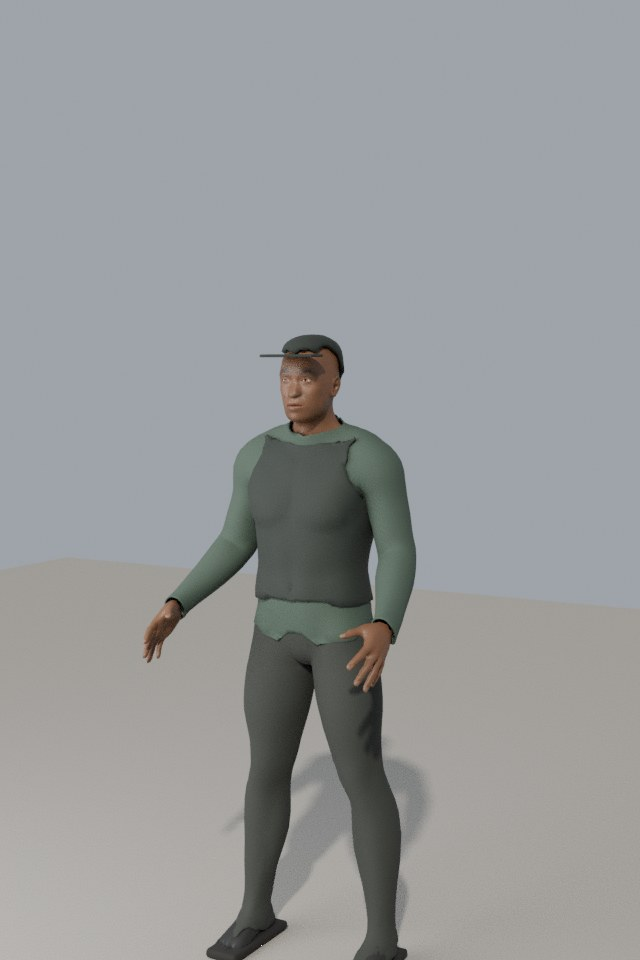
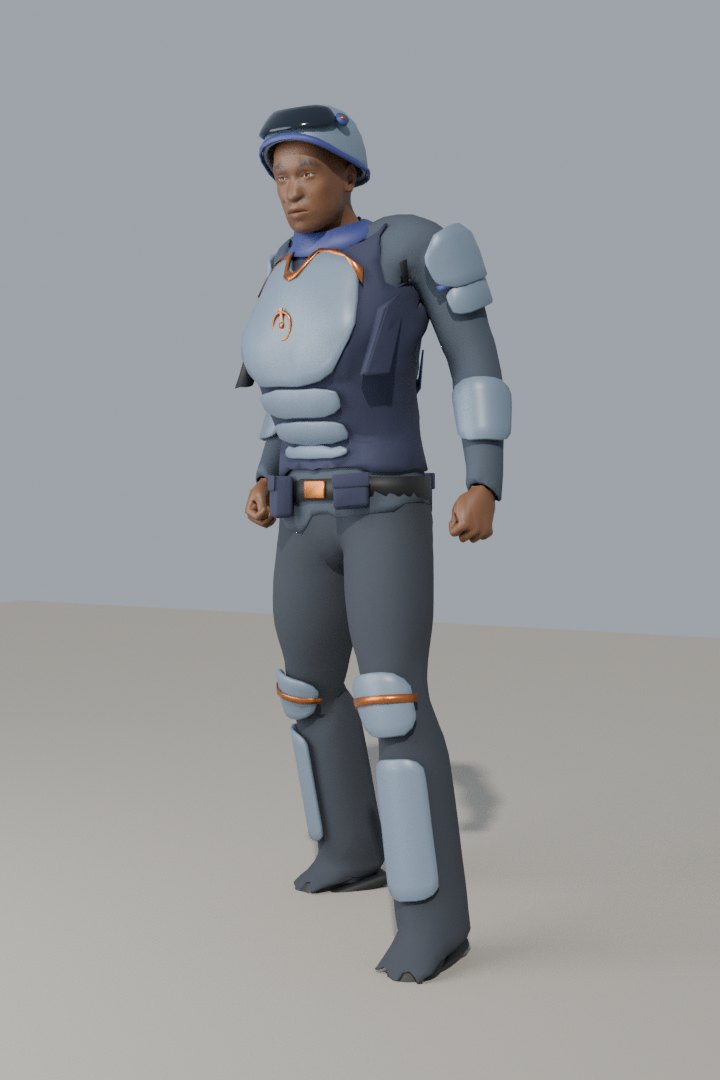
docs(personagens): folha de contato de Brandão, Elias e Custódio; licenças e STATUS
- docs/screenshots/characters/{brandao,elias,custodio}_{corpo,rosto,costas}.jpg: Cycles,
  pose Idle, cena/câmeras do preview_glb.py com o rosto enquadrado pelo osso Head (o
  enquadramento pela altura máxima errava o rosto com capacete/cabeça inclinada).
- elenco_cap1_animacao.jpg: Idle/Walk/Talk/CrouchWalk dos três (Workbench, sheet_glb.py).
- elenco_silhuetas.jpg: fileira do elenco inteiro em cor e silhueta chapada.
- ASSETS.md: brandao.glb, elias.glb, armadura do custodio.glb e os saqueadores (que
  faltavam); STATUS.md: seção do elenco do Capítulo 1, pendência do elenco provisório
  resolvida, números e pendências.
- make_character.py: limpeza de variáveis sem uso (saída idêntica).

Claude-Session: https://claude.ai/code/session_01Wy4uqYY61cVDPzU7hysppd

Changed region(s): [[0.2188, 0.0938, 0.7188, 1.0]]

diff --git a/tools/blender/make_character.py b/tools/blender/make_character.py
@@ -2120,7 +2120,7 @@ def ring_band(name: str, surf: BodySurface, p0: Vector, p1: Vector, n: int, t_ro
     """Faixa fechada em volta de um eixo (gola, cinto, braçadeira): um anel por altura `t_rows` (0..1 de p0 a p1),
     raio = superfície + `offset` (valor ou lista por anel). `uniform`: mesmo raio em todas as alturas (o maior),
     para um cinto reto que passa por cima de uma borda (barra do colete) sem degrau."""
-    a, u, w = axis_basis(p1 - p0, ref)
+    _a, u, w = axis_basis(p1 - p0, ref)
     radii = []
     for t in t_rows:
         o = p0 + (p1 - p0) * t
@@ -2472,11 +2472,11 @@ def build_jacket_extras(name: str, spec: dict, surf: BodySurface, joints, m: dic
 def build_scarf(name: str, spec: dict, surf: BodySurface, joints, m: dict, cloth: dict) -> list:
     """Lenço enrolado na base do pescoço, com a ponta caindo sobre o peito."""
     J = lambda b: joints[f"mixamorig:{b}"]  # noqa: E731
-    neck, head, spine2 = J("Neck"), J("Head"), J("Spine2")
+    neck, head = J("Neck"), J("Head")
     mat = simple_material(f"{name}_mat_scarf", spec["scarf"], 0.92)
     ndir = (head - neck).normalized()
     o = neck - ndir * 0.008
-    a, u, w = axis_basis(ndir, FRONT)
+    _a, u, w = axis_basis(ndir, FRONT)
     path = []
     for i in range(26):
         th = TAU * i / 26
@@ -2561,7 +2561,7 @@ def build_armor(name: str, spec: dict, surf: BodySurface, joints, verts, vgroups
     a = spec["armor"]
     out = []
     J = lambda k: joints[f"mixamorig:{k}"]  # noqa: E731
-    hips, spine, spine1, spine2, neck, head = J("Hips"), J("Spine"), J("Spine1"), J("Spine2"), J("Neck"), J("Head")
+    hips, spine1, spine2, neck, head = J("Hips"), J("Spine1"), J("Spine2"), J("Neck"), J("Head")
     cy = (m["torso_front"] + m["torso_back"]) / 2
     plate = simple_material(f"{name}_mat_plate", a["plate"], 0.42, 0.05)
     helmet_mat = plate

diff --git a/docs/STATUS.md b/docs/STATUS.md
@@ -1,6 +1,6 @@
 # STATUS — O Último Veto / EVA
 
-Atualizado em 30/10/2026 (Setor 17 montado com o kit 2072; antes: personagens realistas, controles de toque, animações CC0 retargeteadas).
+Atualizado em 30/10/2026 (Brandão e Elias com GLBs próprios e armadura segmentada do Custódio; Setor 17 montado com o kit 2072; antes: personagens realistas, controles de toque, animações CC0 retargeteadas).
 
 ## Marco atual: **Vertical slice jogável — "A Apuração" + "O Carregamento"** ✅
 
@@ -22,7 +22,7 @@ O jogo roda no navegador (Chrome/Edge/Firefox recentes no desktop; Chrome/Safari
 | Câmera | ✅ | Terceira pessoa sobre o ombro, mouse com pointer lock — e, quando o navegador recusa o lock (iframe sem permissão, `?pointerlock=0`), arrastar com o botão esquerdo gira a câmera (aviso único na tela) —, arrastar no toque, roda para distância, oclusão por raio físico (não atravessa paredes), enquadramentos de diálogo (over-the-shoulder/two-shot) com letterbox e DOF. Mouse/roda acumulados fora do modo seguir são descartados (sem salto ao sair do diálogo). |
 | Cenário | ✅ (procedural) | Rua de 62 m com 10 fachadas (janelas vedadas/acesas, sacadas, toldos, pichações, varais, caixas d'água, painéis solares), oficina de Matias (interior jogável), praça com posto de distribuição, fila, quadro de avisos, estandarte da Igreja, fonte seca, árvores, mato, carro queimado, entulho, barraca de mercado, gerador, portão da Central de Suprimentos. Placas e cartazes em PT-BR. Vegetação e sinais de ocupação humana (roupas, luzes acesas, energia parcial). |
 | Iluminação | ✅ | Sol direcional + hemisférica + sombras em cascata (CSM, 3 cascatas) ou simples (qualidade baixa), céu procedural (`SkyMaterial`), névoa seca, IBL procedural, postes (um aceso, um piscando com zumbido), lâmpada da oficina; pós-processamento ACES, vinheta, grão, bloom, aberração cromática leve. |
-| NPCs 3D | ✅ (provisórios) | Miriam, Custódio, Comerciante, Raquel e Ana: humanos MakeHuman rigados (Mixamo), malha reduzida (decimate 0,6), colisão (cápsula), viram-se para o jogador, gesto ocasional, animação Talk em diálogo. |
+| NPCs 3D | ✅ (provisórios) | Miriam, Custódio, Comerciante, Raquel e Ana: humanos MakeHuman rigados (Mixamo), malha reduzida (decimate 0,6), colisão (cápsula), viram-se para o jogador, gesto ocasional, animação Talk em diálogo. Capítulo 1: Samuel Brandão e Elias Nobre com GLBs próprios (carregados sob demanda pelo diretor); Custódio com armadura segmentada. |
 | Diálogo PT-BR | ✅ | 5 grafos (`src/data/dialogues.ts`) com falas canônicas do prólogo, condições, efeitos, escolhas (teclas 1–4/setas/clique), legendas com nome do falante, avanço com Espaço/E. |
 | Voz | ⚠ provisória | Síntese de fala do navegador (Web Speech API, voz pt-BR quando disponível). **Não há dublagem gravada.** O sistema já aceita arquivos (`voice` por linha) quando existirem. |
 | Estado narrativo | ✅ | Flags (`matiasTrustsSystem`, `apuracao.postura`, `pista.carregamento`, …) e missão "A Apuração" com 5 objetivos; HUD de objetivo e avisos. |
@@ -41,7 +41,7 @@ O jogo roda no navegador (Chrome/Edge/Firefox recentes no desktop; Chrome/Safari
 
 ## Assets provisórios (todos marcados em `public/assets/licenses/ASSETS.md`)
 
-- **Personagens**: gerados por `tools/blender/make_character.py` (Blender headless via `pip install bpy`) a partir de **dados CC0 do MakeHuman** vendorizados em `tools/blender/data/makehuman` — malha base hm08, targets (raça/sexo/idade/peso + detalhes faciais), rig Mixamo com pesos, máscaras de pele e olhos. Anatomia e rosto são reais; pele é procedural bakeada (2048 px Matias / 1024 px NPCs); cabelo é uma calota esculpida (sem fios); roupas são cascas conformadas ao corpo (sem rugas/tecido); acessórios (óculos, mochila, cinto, boné, lenço, jaleco, avental) são primitivas ou camadas do corpo. Sem marcas; sem a fotografia do criador (o rosto de Matias não tem semelhança com ele). Pré-visualizações em `docs/screenshots/characters/`. **Animações não são provisórias**: biblioteca CC0 da Quaternius (ver acima); vídeo de avaliação em `docs/videos/locomocao.mp4`.
+- **Personagens**: gerados por `tools/blender/make_character.py` (Blender headless via `pip install bpy`) a partir de **dados CC0 do MakeHuman** vendorizados em `tools/blender/data/makehuman` — malha base hm08, targets (raça/sexo/idade/peso + detalhes faciais), rig Mixamo com pesos, máscaras de pele e olhos. Anatomia e rosto são reais; pele é procedural bakeada (2048 px Matias / 1024 px NPCs); cabelo é uma calota esculpida (sem fios); roupas são cascas conformadas ao corpo (sem rugas/tecido); acessórios (óculos, mochila, cinto, boné, lenço, jaleco, avental) são primitivas ou camadas do corpo. Brandão, Elias e o Custódio usam o passe de roupas volumétricas (tecido que cai reto, bordas cortadas por planos, peças projetadas na superfície — ver "Personagens do Capítulo 1"). Sem marcas; sem a fotografia do criador (o rosto de Matias não tem semelhança com ele). Pré-visualizações em `docs/screenshots/characters/`. **Animações não são provisórias**: biblioteca CC0 da Quaternius (ver acima); vídeo de avaliação em `docs/videos/locomocao.mp4`.
 - **MPFB/asset packs**: o plugin MPFB foi clonado mas **não é executado** (o gerador é código próprio que lê só os dados CC0). Os pacotes de assets do MakeHuman (peles fotográficas, cabelos, roupas) **não estão instalados** — o site makehumancommunity.org é inacessível deste ambiente. Rodar o MPFB com `makehuman_system_assets` na máquina do criador é o próximo salto de qualidade.
 - **Cenário**: a praça da Apuração ("hero corner" M1.1) usa o kit GLB `public/assets/environments/praca_hero.glb` (fachada da Central com vãos reais, sobrados com varandas/grades/varais, posto, banca, gerador, tambores, caixotes, poste, árvores com folhagem alpha-test) e materiais PBR fotográficos CC0 da ambientCG (reboco, pedra portuguesa, concreto, telha, ferrugem). O resto da rua ainda é geometria em blocos com texturas procedurais. Comparações A/B com câmera idêntica em `docs/screenshots/m1/` (`antes_*` vs `depois_*`); passeio pelo canto em `docs/videos/praca_hero.mp4`.
 - **Veículos (PR #1)**: Javali VB-4, Atlas T-3, Módulo V-7 **dirigíveis** e Rastro AV-4 **pilotável** (física em `src/vehicles/`), modelos refinados no Blender a partir do gerador da PR (`public/assets/vehicles/`); Janus só no visualizador `preview-veiculos.html`. Modelos ainda são **protótipos modulares** (silhuetas simples), não arte final. `npm run test:gameplay`.
@@ -89,7 +89,7 @@ Jogáveis de ponta a ponta e encadeadas ao fim do Capítulo 0: na tela de conclu
 - **Testes**: `tests/unit/chapter1Director.test.ts` (consequências, fala da tabela = grafo, fase/posições a partir do save, o capítulo inteiro sobre um dublê do jogo, falha branda, carregar no meio do toque, câmera da partida) e `npm run test:cap1` (`tools/cap1-test.mjs`, no build: joga M2 → M3 → M4 com teleportes, `input.simulate` e diálogos com escolhas — 64 verificações, 15–20 min no SwiftShader — e, num novo jogo pelo caminho do silêncio, confere que o portão do depósito fica fechado e que a grade dos fundos só deixa passar agachado). `node tools/gameplay-test.mjs --only missao` continua verde (Capítulo 0). Capturas: `docs/screenshots/cap1/`.
 
 ### Provisório / pendente (Capítulo 1)
-- **Samuel Brandão e Elias Nobre usam GLBs de outras variantes** (`PROVISIONAL_CAST` em `src/data/characters.ts`): Brandão = `saqueador_b`, Elias = `saqueador_a` (nenhum dos dois aparece na mesma cena que os desviadores de M1). Falta a Arte gerar `brandao.glb` (farda cinza de oficial de distribuição, sem armadura) e `elias.glb` (mensageiro de 24 anos) — trocar `model` no mapa basta. Vozes de ambos são TTS com perfis próprios.
+- ~~Brandão e Elias com GLBs de outras variantes~~ — resolvido em 30/10/2026: `brandao.glb` e `elias.glb` próprios (`CHAPTER1_CAST` em `src/data/characters.ts`; `PROVISIONAL_CAST` ficou vazio). Vozes de ambos continuam TTS com perfis próprios (falta dublagem).
 - **Ana passageira**: um segundo modelo de Ana com o clipe `Sit`, preso ao chassi no espelho do banco do motorista (o GLB da van não tem nó de passageiro). Conferido em captura: de lado e por trás ela fica dentro da cabine; de frente, como Matias ao volante, só aparecem as pernas abaixo do para-brisa opaco do GLB (por isso a câmera da partida fica atrás da van).
 - **Amanhecer**: o `Environment` só interpola tarde → anoitecer; o amanhecer é imitado com o céu em 0,42 → 0,18 (sol ainda no oeste).
 - **Cena de partida**: a van segue sozinha ~2,6 s (anda ~5 m) e a tela escurece; o portão norte é geometria fechada do mapa (não abre), a cancela não sobe e não há o boletim do rádio ao fundo. As pausas da cena são em tempo real (no SwiftShader a van mal sai do lugar antes do fade).
@@ -106,18 +106,32 @@ O blockout do Setor 17 ganhou a aparência do kit `kit_tech.glb` (regra das trê
 - **Testes** (30/10/2026, `main` d356992): `npm run check` 137 testes ✔; `node tools/setor17-test.mjs` **24/24** ✔ (as 7 falhas anteriores — caminhos Recast vazios e escada da escola — foram corrigidas: células de 0,2 m, busca vertical curta, portas internas de 1,3 m, escada da escola invertida com pé no pátio, rampa rente ao patamar, guarda-corpos com colisor); `node tools/gameplay-test.mjs` **56/56** ✔; `npm run test:cap1` **64/64** ✔.
 - **Pendências**: fachada queimada, trecho caído do viaduto, reservatório da cisterna, antena da Central e as peças de depósito/escola não existem no kit (seguem blockout); `TECH_poste_sensor`/`PROP_*` fora do setor por orçamento de draw calls; transição de LOD a 70 m visível de perto da névoa; fachadas laterais e fundos seguem caixas; tabuleiro do kit (5,6 m) mais estreito que o colisor do viaduto (8 m) e pilar do kit mais grosso que o colisor (1,6 m); sem luz de poste nas fachadas do kit à noite.
 
+## Personagens do Capítulo 1 e armadura do Custódio (branch `agente/personagens`) ✅
+
+`tools/blender/make_character.py` ganhou um passe de roupas volumétricas: as peças novas são projetadas sobre a pele em resolução cheia (antes do decimate) por raios a partir de eixos do corpo (`BodySurface`/`LayerSurface`), o tecido cai reto a partir do peito/joelho (`drape`, não cola na cintura nem na canela), os vales do corpo (coluna, escápulas, glúteos) são preenchidos sem estufar ombros (`fill_concave`, fora dos braços), barras e aberturas são cortadas por planos (`cut_garment`, sem zigue-zague) e placas/bolsos seguem os pesos da camada de baixo (`copy_weights`; rígidas num osso só, o colete as atravessaria quando a coluna se move). Antes do export as peças do mesmo material são fundidas (`consolidate`): cada malha é um draw call no Babylon. `--only` regenera só as variantes pedidas e atualiza as entradas delas em `characters.json`.
+
+| Variante | Silhueta | Triângulos | Arquivo | Malhas |
+| --- | --- | --- | --- | --- |
+| `brandao.glb` (44 anos, 1,74 m) | farda cinza de oficial de distribuição **sem armadura**: túnica até o quadril com cinto, gola alta com filete de cobre, vista com botões, bolsos de peito com lapela, dragonas, insígnia geométrica (hexágono cobre/índigo), faixa de cobre no braço, crachá, **prancheta na mão esquerda**; calça reta, grisalho | 37 089 | 2,7 MB | 12 |
+| `elias.glb` (24 anos, 1,79 m) | **jaqueta leve gasta aberta** (capuz abaixado, remendos de couro nos cotovelos) sobre camiseta clara, lenço terracota, **bolsa transversal** com papéis atrás do quadril esquerdo (fora do balanço do braço), tênis de sola clara | 39 204 | 2,8 MB | 12 |
+| `custodio.glb` (armadura) | placas de cerâmica cinza-azulada (peito com recorte de gola, filete de cobre e emblema da Igreja; abdômen em 3 lâminas; costas; ombreiras em 2 lâminas; antebraços; joelheiras; caneleiras), colete índigo com rádio e lanterna, gola de proteção, cinto de serviço com bolsos e cassetete, **capacete com viseira levantada**; cabelo raspado (sai o boné) | 44 207 (antes 35 079) | 2,9 MB | 11 (antes 10) |
+
+Mesmo rig Mixamo (52 ossos) e os 16 clipes UAL retargeteados; validador Khronos sem erros (`node tools/validate-characters.mjs`). Folha de contato (Cycles, pose Idle; cena e câmeras de `tools/blender/preview_glb.py`, com o rosto enquadrado pelo osso Head) em `docs/screenshots/characters/{brandao,elias,custodio}_{corpo,rosto,costas}.jpg`, animações (Workbench: Idle/Walk/Talk/CrouchWalk) em `docs/screenshots/characters/elenco_cap1_animacao.jpg` e a fileira de silhuetas do elenco inteiro (cor + silhueta chapada) em `docs/screenshots/characters/elenco_silhuetas.jpg`. Testes: `tests/assets/characters.test.ts` confere elenco sem modelo emprestado, peças distintas por nome de malha, orçamento (≤ 50 mil triângulos, < 3,4 MB, ≤ 12 malhas) e a carga no Babylon com todos os clipes.
+
+- **Pendências**: cabelo continua calota esculpida (sem mechas) e as roupas não têm rugas; a prancheta de Brandão acompanha a mão (nas falas com gesto ela sobe junto); o capuz de Elias é rolo + almofada (não é tecido simulado); com animações extremas (Run, Death) pode haver pequenas interpenetrações bolsa/coxa (bolsa rígida no quadril); o Custódio ficou com +1 draw call (11 malhas) e +9 mil triângulos — patrulhas de M3 usam 2–3 cópias; vozes seguem TTS.
+
 ## Próxima etapa
 
 1. Gravações CC0 para tiros, motor, rotores e reações (hoje sintetizados); dublagem.
 2. IA com cobertura e navmesh (Recast) para ruas estreitas; inimigos em veículos.
 3. Capítulo 2 (Estação Nove): a decisão de Ana (`cap1.m4.ana`) e as flags do Capítulo 1 já estão salvas para ele.
-4. Arte: fachadas da rua no kit GLB (M1.2), armadura do Custódio, passe de modelagem nos veículos.
+4. Arte: fachadas da rua no kit GLB (M1.2), passe de modelagem nos veículos; cabelo em mechas/cartões e rugas de tecido nos personagens.
 
 ## Plano anterior (M1)
 
 1. Elevar os personagens: pele fotográfica/cabelo/roupas via MPFB + asset packs na máquina do criador (animações já resolvidas com a UAL; rig compatível com mais clipes dela e do Mixamo).
 2. Fechar os beats 4 e 5: mensageiro, multidão na fila com reações, Custódio pedindo calma, depósito com a pista física e a decisão final em tensão.
 3. Gravar/licenciar dublagem e SFX; lip-sync básico.
-4. Estender o kit GLB + PBR da praça ao resto da rua (M1.2: fachadas da rua, oficina, carro queimado), decals de sujeira; Custódio com armadura segmentada (pendente do M1.1); otimização (instâncias, KTX2, Draco).
+4. Estender o kit GLB + PBR da praça ao resto da rua (M1.2: fachadas da rua, oficina, carro queimado), decals de sujeira; Custódio com armadura segmentada (feito em 30/10/2026); otimização (instâncias, KTX2, Draco).
 5. Gamepad, acessibilidade (tamanho de legenda, daltonismo), WebGPU opcional; validar o toque em aparelhos reais (Android/iOS) e medir desempenho.
 6. Pipeline de CI (GitHub Actions: `npm run check` + teste visual com screenshots).

diff --git a/public/assets/licenses/ASSETS.md b/public/assets/licenses/ASSETS.md
@@ -7,11 +7,14 @@ Regra do projeto: **nenhum asset sem origem e licença registradas aqui.** Nada 
 | `public/assets/characters/matias.glb` | Modelo 3D rigado (rig Mixamo, 52 ossos, skinning, 8 clipes) | Gerado por `tools/blender/make_character.py` (Blender headless) a partir de dados CC0 do MakeHuman; animações retargeteadas da Quaternius Universal Animation Library por `tools/blender/retarget.py` | Malha/targets/rig/pesos/olhos: MakeHuman Team (CC0 1.0); pele, cabelo, roupa e acessórios: Projeto EVA (procedurais, CC0); animações: Quaternius / Gonzalo Furnier (CC0 1.0) | CC0-1.0 | Sim | Anatomia e rosto reais (MakeHuman hm08 morfado: 58 anos, moreno); pele bakeada 2048 px; cabelo em calota; roupa de trabalho como casca conformada; óculos, mochila, cinto. Clipes Idle/Walk/Run/CrouchIdle/CrouchWalk/Talk/Interact/PickUp = `Idle_Loop`/`Walk_Loop`/`Jog_Fwd_Loop`/`Crouch_Idle_Loop`/`Crouch_Fwd_Loop`/`Idle_Talking_Loop`/`Interact`/`PickUp_Table` da biblioteca. **Provisório**: sem fios de cabelo, sem rugas de tecido, sem cílios, sem semelhança com o criador. |
 | `assets-src/animations/ual-standard/standard/Unreal-Godot/UAL1_Standard.glb` | Biblioteca de animações (rig universal, 65 juntas, 43 clipes in-place, 30 fps) | https://quaternius.itch.io/universal-animation-library — versão **Standard gratuita** v3 (16/06/2026), download oficial sem pagamento | Quaternius (animações com Gonzalo Furnier) | CC0 1.0 (`License.txt` ao lado) | Sim | Fonte das animações de todos os personagens; só o GLB in-place é mantido (ver `assets-src/animations/README.md`). |
 | `public/assets/characters/miriam.glb` | Modelo 3D rigado (Mixamo, 8 clipes da biblioteca) | idem | idem | CC0-1.0 | Sim | 36 anos; lenço na cabeça, faixa da Igreja. Pele 1024 px, malha reduzida (decimate 0,6). |
-| `public/assets/characters/custodio.glb` | Modelo 3D rigado (Mixamo) | idem | idem | CC0-1.0 | Sim | Boné com aba, colete. |
+| `public/assets/characters/custodio.glb` | Modelo 3D rigado (Mixamo) | idem | idem | CC0-1.0 | Sim | Passe de armadura (30/10/2026), proteção humana fabricável conforme `docs/DIRECAO_ARTE.md`: placas de cerâmica cinza-azulada projetadas sobre o corpo (peito com recorte de gola e filete de cobre, abdômen em 3 lâminas, costas, ombreiras em 2 lâminas, antebraços, joelheiras, caneleiras), colete índigo com rádio e lanterna, gola de proteção, cinto de serviço com bolsos e cassetete, capacete de polímero com viseira fumê levantada. Emblema da Igreja (anel, eixo e semente) = iconografia própria do projeto (mesma de `make_environment.py`). Nada copiado de outra obra. 44 207 triângulos, 2,9 MB, 11 malhas. |
+| `public/assets/characters/brandao.glb` | Modelo 3D rigado (Mixamo, 16 clipes da biblioteca) | idem | idem | CC0-1.0 | Sim | Samuel Brandão, 44 anos: farda cinza de oficial de distribuição sem armadura (túnica até o quadril, gola alta, dragonas, bolsos de peito, cinto), insígnia geométrica genérica (hexágono de cobre/índigo), faixa de cobre no braço, crachá sem texto/foto real, prancheta na mão esquerda. Sem marcas. 37 089 triângulos, 2,7 MB, 12 malhas. |
+| `public/assets/characters/elias.glb` | Modelo 3D rigado (Mixamo, 16 clipes da biblioteca) | idem | idem | CC0-1.0 | Sim | Elias Nobre, 24 anos: jaqueta leve gasta aberta com capuz abaixado e remendos de couro, camiseta clara, lenço, bolsa transversal com papéis (sem texto), tênis de sola clara. Sem marcas. 39 204 triângulos, 2,8 MB, 12 malhas. |
+| `public/assets/characters/saqueador_a.glb`, `saqueador_b.glb` | Modelos 3D rigados (Mixamo) | idem | idem | CC0-1.0 | Sim | Desviadores de cargas (inimigos de M1): boné e colete / lenço na cabeça. |
 | `public/assets/characters/comerciante.glb` | Modelo 3D rigado (Mixamo) | idem | idem | CC0-1.0 | Sim | Avental, grisalho. |
 | `public/assets/characters/raquel.glb` | Modelo 3D rigado (Mixamo) | idem | idem | CC0-1.0 | Sim | Jaleco, coque. |
 | `public/assets/characters/ana.glb` | Modelo 3D rigado (Mixamo) | idem | idem | CC0-1.0 | Sim | 15 anos, rabo de cavalo. |
-| `public/assets/characters/characters.json` | Manifesto | idem | Projeto EVA | CC0-1.0 | Sim | Ossos, clipes (com a animação-fonte e nº de quadros), alturas e contagens. |
+| `public/assets/characters/characters.json` | Manifesto | idem | Projeto EVA | CC0-1.0 | Sim | Ossos, clipes (com a animação-fonte e nº de quadros), alturas e contagens (Brandão, Elias e Custódio: triângulos exportados, iguais aos do validador da Khronos; os demais, contagem antiga antes do solidify). |
 | `tools/blender/data/makehuman/**` | Dados-fonte: `base.obj` (hm08), targets `.target.gz`, `rig.mixamo.json`, `weights.mixamo.json`, máscaras `mpfb_*.jpg`, olhos `high-poly.*` + `brown_eye.png` | github.com/makehumancommunity/mpfb2 (`src/mpfb/data`) e github.com/makehumancommunity/makehuman (`makehuman/data/eyes`) | MakeHuman Team (Data Collection AB, Joel Palmius, Jonas Hauquier) | CC0 1.0 (ver `tools/blender/data/makehuman/LICENSE.md`) | Sim | Apenas dados; nenhum código GPL do MakeHuman/MPFB é executado ou distribuído. |
 | `assets-src/textures/ambientcg/{PaintedPlaster017,PavingStones070,Concrete034,CorrugatedSteel005,Rust004}/*.jpg` e `public/assets/textures/<id>/*.jpg` (recomprimidas: cor 1024 px, rugosidade/AO/metal 512 px) | Texturas PBR fotografadas (Color, NormalGL, Roughness, AO, Metalness) | https://ambientcg.com (downloads oficiais 1K JPG, gratuitos) | ambientCG / Lennart Demes | CC0 1.0 (`assets-src/textures/README.md`) | Sim | Reboco pintado (fachadas), pedra portuguesa (piso da praça), concreto (embasamentos, cornijas), telha metálica (cobertura do posto), ferrugem (tambores, gerador, calhas). Usadas pelos módulos GLB e por `src/world/materials.ts` (`photoPbr`). |
 | `public/assets/environments/praca_hero.glb` | Kit modular da praça (24 assets, 48 K triângulos, texturas embutidas): fachada da Central, 2 sobrados residenciais (varandas, grades, varais, ar-condicionado, caixa d'água), posto de distribuição, banca de feira, gerador, botijões, tambores metálico/plástico, caixote, banco, caixa elétrica, poste de luz, 2 árvores | Modelado por `tools/blender/make_environment.py` (Blender headless: bmesh, booleanos, chanfros, UVs em caixa) | Projeto EVA (geometria); texturas ambientCG (CC0) + texturas procedurais PIL (madeira, listras, manchas, casca, folhagem) | CC0-1.0 | Sim | Cada asset tem a origem no chão, frente para +Z e colisores `COL_*`; colocação em `src/world/heroAssets.ts`. Sem marcas nem referências a outros jogos. |
